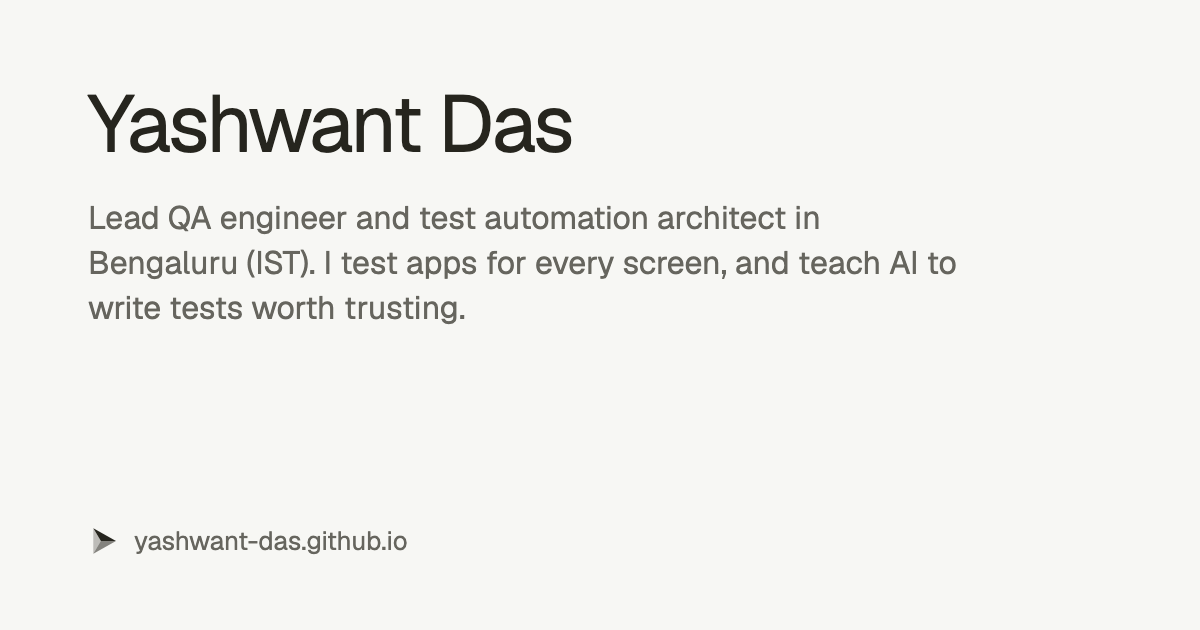
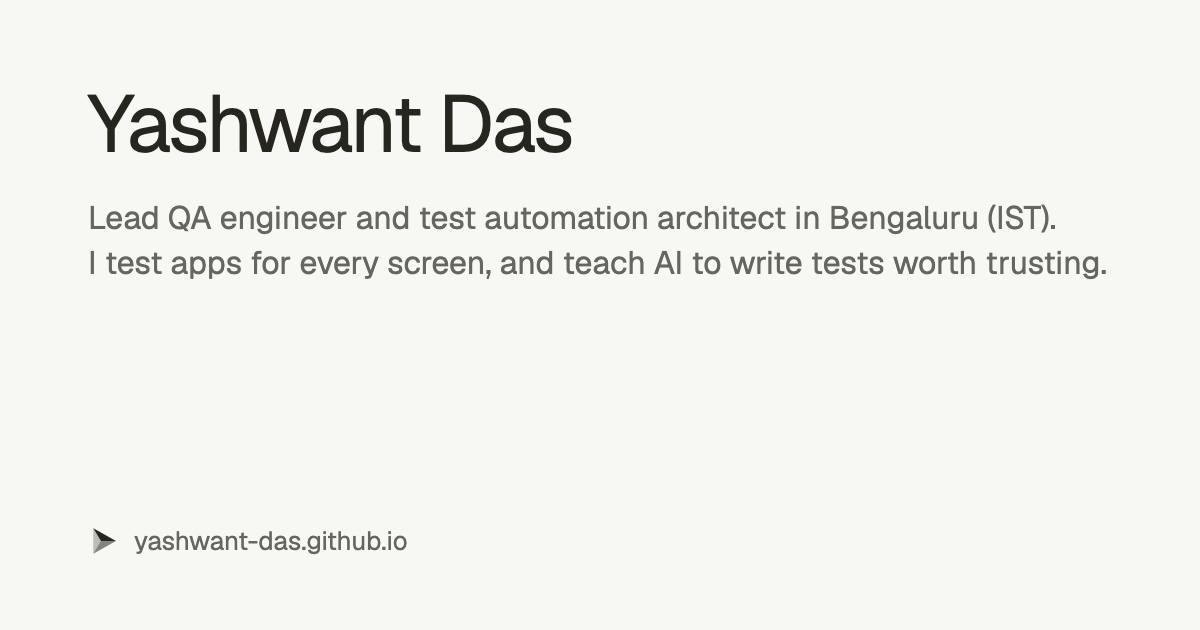
Break the hero lede between its sentences; restore the space in "View on GitHub"
Safari broke the lede after a stranded "I". The statement now starts its
own line, so every browser breaks between the two sentences, and a
one-letter word is tied to the next one. The link-preview card follows.

The README link read "Viewon GitHub": " on GitHub" had become its own
flex item, which drops leading spaces. The label is now one span, and a
test flags any flex link whose text could lose a space that way.

Changed region(s): [[0.0617, 0.3016, 0.925, 0.5127]]

diff --git a/src/render.ts b/src/render.ts
@@ -37,6 +37,12 @@ const MOON_ICON =
 const MARK =
   '<svg class="wordmark-mark" viewBox="0 0 24 24" fill="currentColor" aria-hidden="true" focusable="false"><path d="M4 2.5 21 12H9.67Z"/><path d="M4 21.5 21 12H9.67Z" fill-opacity=".55"/><path d="M4 2.5 9.67 12 4 21.5Z" fill-opacity=".28"/></svg>';
 
+// A one-letter word ("I", "a") never ends a line: a no-break space ties it to
+// the word after it.
+export function tieShortWords(text: string): string {
+  return text.replace(/(^|\s)(\S) /g, '$1$2\u00a0');
+}
+
 export function escapeHtml(value: string): string {
   return value
     .replace(/&/g, '&amp;')
@@ -180,7 +186,7 @@ function renderHero(data: PortfolioData, icon: IconResolver, visible: Set<Sectio
   const socials = data.contact.socials ?? {};
   // Non-breaking spaces keep "Bengaluru (IST)" on one line.
   const role = data.location
-    ? `${data.role} in ${data.location.replace(/ /g, ' ')}.`
+    ? `${data.role} in ${data.location.replace(/ /g, '\u00a0')}.`
     : `${data.role}.`;
   const links = HERO_SOCIALS.filter((label) => socials[label]);
   const actions =
@@ -202,7 +208,7 @@ function renderHero(data: PortfolioData, icon: IconResolver, visible: Set<Sectio
       }
       <div class="hero-text">
         <h1 class="hero-name" id="hero-name">${escapeHtml(data.name)}</h1>
-        <p class="hero-lede"><span class="hero-role">${escapeHtml(role)}</span> <span class="hero-statement">${escapeHtml(data.statement)}</span></p>
+        <p class="hero-lede"><span class="hero-role">${escapeHtml(role)}</span> <span class="hero-statement">${escapeHtml(tieShortWords(data.statement))}</span></p>
       </div>
       ${
         data.status
@@ -355,7 +361,7 @@ function renderWork(data: PortfolioData, icon: IconResolver): string {
               <h3 class="doc-title">${escapeHtml(p.title)}</h3>
               <p class="doc-text">${escapeHtml(p.description)}</p>
               ${p.stack?.length ? `<p class="doc-head">Built with</p>${toolList(p.stack, tools, icon)}` : ''}
-              <a class="text-link doc-link" ${external(p.code)}>View<span class="sr-only"> ${escapeHtml(p.title)}</span> on GitHub${RIGHT}</a>
+              <a class="text-link doc-link" ${external(p.code)}><span>View<span class="sr-only"> ${escapeHtml(p.title)}</span> on GitHub</span>${RIGHT}</a>
             </div>`,
   }));
 

diff --git a/tests/portfolio.spec.ts b/tests/portfolio.spec.ts
@@ -55,6 +55,46 @@ test.describe('Portfolio', () => {
     }
   });
 
+  // The lede breaks between its two sentences in every browser, and a
+  // one-letter word ("I") is never left at the end of a line.
+  for (const width of [360, 1440]) {
+    test(`breaks the hero lede between its sentences at ${width}px`, async ({ page }) => {
+      await page.setViewportSize({ width, height: 900 });
+      await page.reload();
+      const lede = await page.evaluate(() => {
+        const top = (el: Element) => Math.round(el.getClientRects()[0]!.top);
+        const role = document.querySelector('.hero-role')!;
+        const statement = document.querySelector('.hero-statement')!;
+        const lastRoleLine = Math.max(...[...role.getClientRects()].map((r) => Math.round(r.top)));
+        return {
+          statementOnNewLine: top(statement) > lastRoleLine,
+          text: statement.textContent ?? '',
+        };
+      });
+      expect(lede.statementOnNewLine).toBe(true);
+      expect(lede.text).not.toMatch(/(^|\s)\S /);
+    });
+  }
+
+  // Flex items drop their leading and trailing spaces, so text sitting
+  // directly in a flex link ("View" + " on GitHub") would run together.
+  test('keeps the spaces in link labels', async ({ page }) => {
+    const runTogether = await page.evaluate(() =>
+      [...document.querySelectorAll('a, button')]
+        .filter((el) => getComputedStyle(el).display.includes('flex'))
+        .flatMap((el) =>
+          [...el.childNodes].filter(
+            (n) =>
+              n.nodeType === Node.TEXT_NODE &&
+              /\S/.test(n.textContent!) &&
+              /^\s|\s$/.test(n.textContent!)
+          )
+        )
+        .map((n) => n.parentElement!.textContent!.trim())
+    );
+    expect(runTogether).toEqual([]);
+  });
+
   test('shows every section', async ({ page }) => {
     for (const id of SECTIONS) {
       await expect(page.locator(`#${id}`)).toBeVisible();

diff --git a/css/style.css b/css/style.css
@@ -553,6 +553,12 @@ button {
   letter-spacing: normal;
 }
 
+/* The statement starts its own line, so the lede breaks between its two
+   sentences in every browser, not wherever one sentence runs out of room. */
+.hero-statement {
+  display: block;
+}
+
 .status {
   display: inline-flex;
   align-items: center;

diff --git a/AGENTS.md b/AGENTS.md
@@ -33,7 +33,7 @@ npm run format     # Prettier
 - **Orange:** `--primary` is for focus rings; `--link` is for text links ("More on Medium →"). Nothing else is orange.
 - **Link preview:** `public/og.png` (1200 × 630) is the card LinkedIn, Slack and X show, set like the hero. It is generated, so after changing the name, role, location or statement run `node scripts/og-image.mjs`.
 - **Mark:** as on cursor.com, a single-colour faceted mark in ink beside the name: a run button seen as a pyramid, its three faces at full, 55% and 28% opacity, so it follows the theme. `public/favicon.svg` is the same mark, switching to the dark theme's ink with the system setting. Safari ignores SVG favicons, so after changing it run `node scripts/favicons.mjs` to regenerate the PNG icons.
-- **Hero:** avatar, then the name in ink at headline size with role, location and statement beneath it in grey at body size (`--text-base`) (the location carries the timezone, "Bengaluru (IST)", since recruiters screen by it), the LinkedIn (primary) and GitHub buttons, and a "Tested on" line of named platforms (no generic "Smart TV"), each with its own icon. Where a platform's logo is a wordmark (Samsung, Roku, LG, Apple TV), set `wordmark` in `content.json`: the logo, cropped tight in `src/icons/`, stands in for that part of the name at cap height, standing on the baseline like the letters, and screen readers still hear the whole name. Icons are centred on the capital letters, not the line box (the `cap` unit in `css/style.css`); a test holds both to within half a pixel. Fire TV and Xbox use `ui:` icons, since Simple Icons can't carry their marks.
+- **Hero:** avatar, then the name in ink at headline size with role, location and statement beneath it in grey at body size (`--text-base`) (the location carries the timezone, "Bengaluru (IST)", since recruiters screen by it; the statement starts its own line, so the lede breaks between its sentences in every browser, and a one-letter word like "I" is tied to the next word), the LinkedIn (primary) and GitHub buttons, and a "Tested on" line of named platforms (no generic "Smart TV"), each with its own icon. Where a platform's logo is a wordmark (Samsung, Roku, LG, Apple TV), set `wordmark` in `content.json`: the logo, cropped tight in `src/icons/`, stands in for that part of the name at cap height, standing on the baseline like the letters, and screen readers still hear the whole name. Icons are centred on the capital letters, not the line box (the `cap` unit in `css/style.css`); a test holds both to within half a pixel. Fire TV and Xbox use `ui:` icons, since Simple Icons can't carry their marks.
 - **Tested for:** a cursor.com logo band: a small centred caption ("Tested for these clients") over one row of filled 100px tiles, client logos in full ink, ordered by market value (largest first; private companies placed by scale). Every logo is one height (`--logo-height`), centred in its tile; a wordmark too wide for its tile shrinks to fit. For that height to mean the same thing for every brand, crop each logo's viewBox tight to its artwork, and leave out ® marks, taglines and background tiles. Clients only: no employers line.
 - **Closing:** "Get in touch." at display size, centred, with every social, LinkedIn first as the primary button.
 - **Feature blocks (Selected work, Stack):** as on cursor.com, a filled block with a title and a grey body-size description on one side and an app window on a panel with a painted wallpaper on the other, alternating sides. The wallpaper is a public-domain painting (John Henry Twachtman's "Winter Harmony", National Gallery of Art, CC0) in `public/assets/wallpaper/`, never cursor.com's own. The Stack panel shows its other side, `--media` shows while it loads, and in dark mode `--media-veil` dims it. Each window's sidebar is an ARIA tab list (click, arrow keys, Home and End; `src/main.ts`) that swaps a README-style pane: repositories with their description, logos and GitHub link; toolbox groups with their tools. Everything in them comes from `content.json`. As on cursor.com, the text may end in one orange text link (Selected work: "All projects on GitHub →"), and the window is cursor.com's size: 920 × 600px, 40px from the panel's top and bottom and 32px from its inner edge. In Selected work it runs off the panel's right edge (at most 192px), the block's outer edge, and its document wraps inside the part left visible (a container query on the panel), so no text is cut off; a test checks this at iPad and laptop widths. It never runs toward the text, since in dark mode its editor pane is the block's own colour and the two would merge; and Stack's window can't run off the left without hiding its sidebar, so, as on cursor.com's reversed cards, it sits whole inside its panel. Phones keep the windows, as cursor.com does: below 768px the text sits above the panel, the window fits whole inside it, and the sidebar becomes a row of pill tabs across the top that scrolls sideways (left and right arrows too), fading at any end with more tabs beyond it. The selected tab takes the fill and a semibold title, since the fill alone is too faint to mark the state; on phones each pill reserves its semibold width so the row never shifts. A focused panel's ring is drawn around its document, which always fits the visible part of the window. The panels share one grid cell, so switching never changes the window's height. On desktop the window's height is fixed, so a document that outgrows it at 200% text size scrolls inside its panel; a test checks nothing is cut off.
